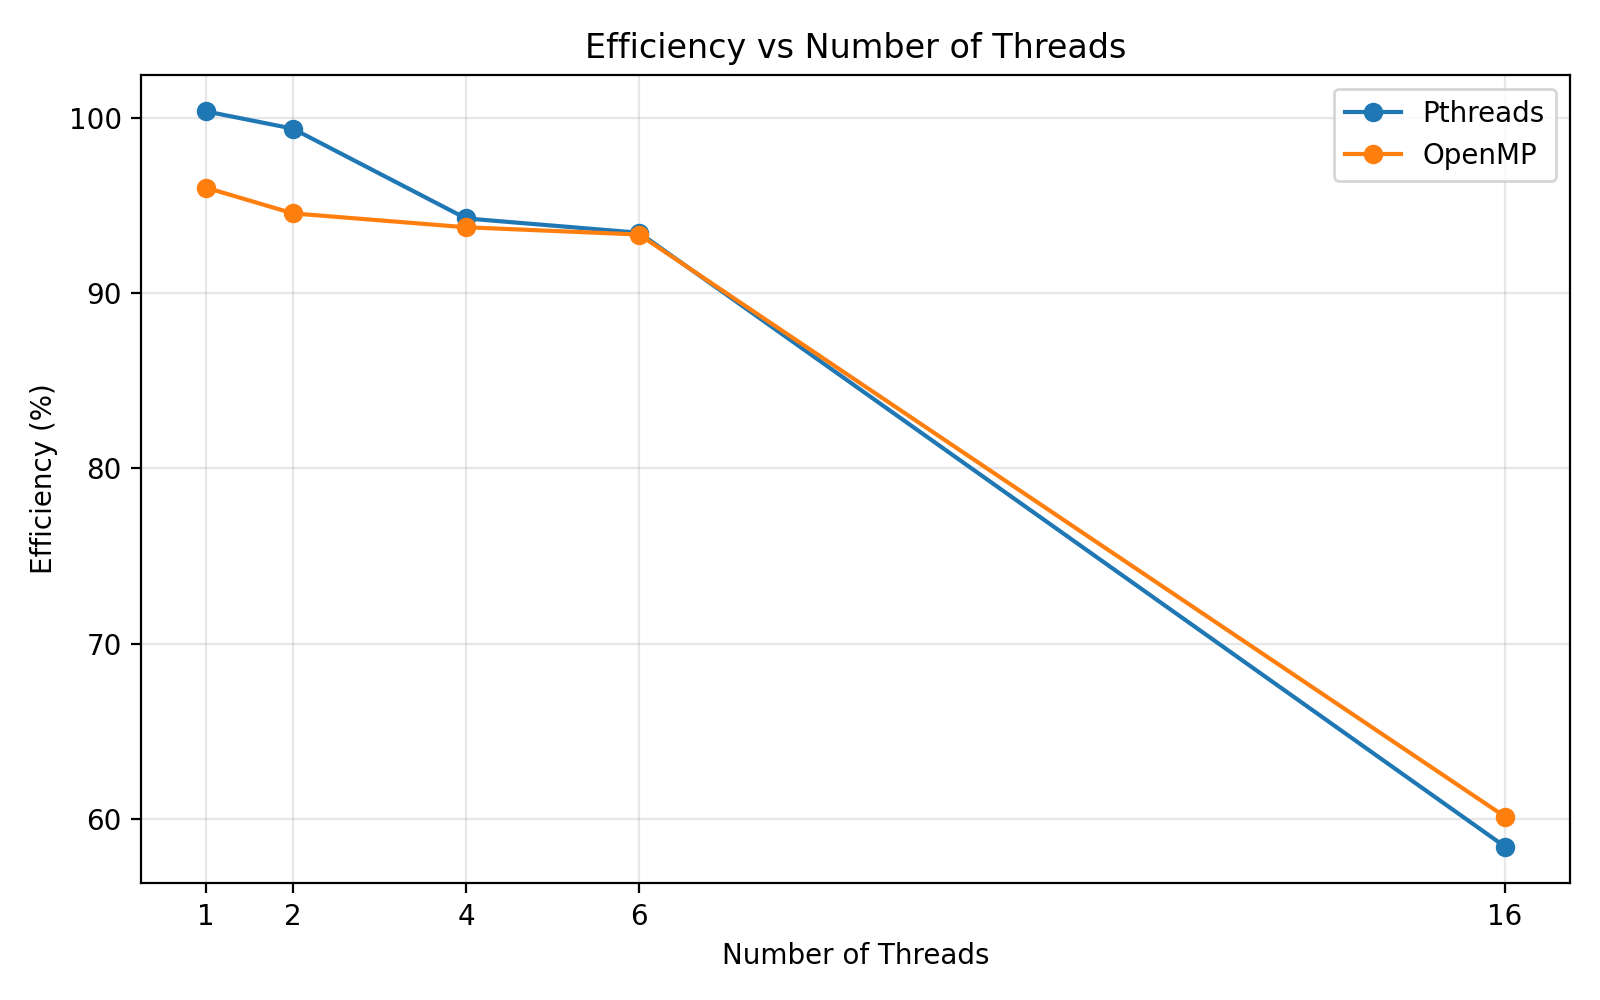
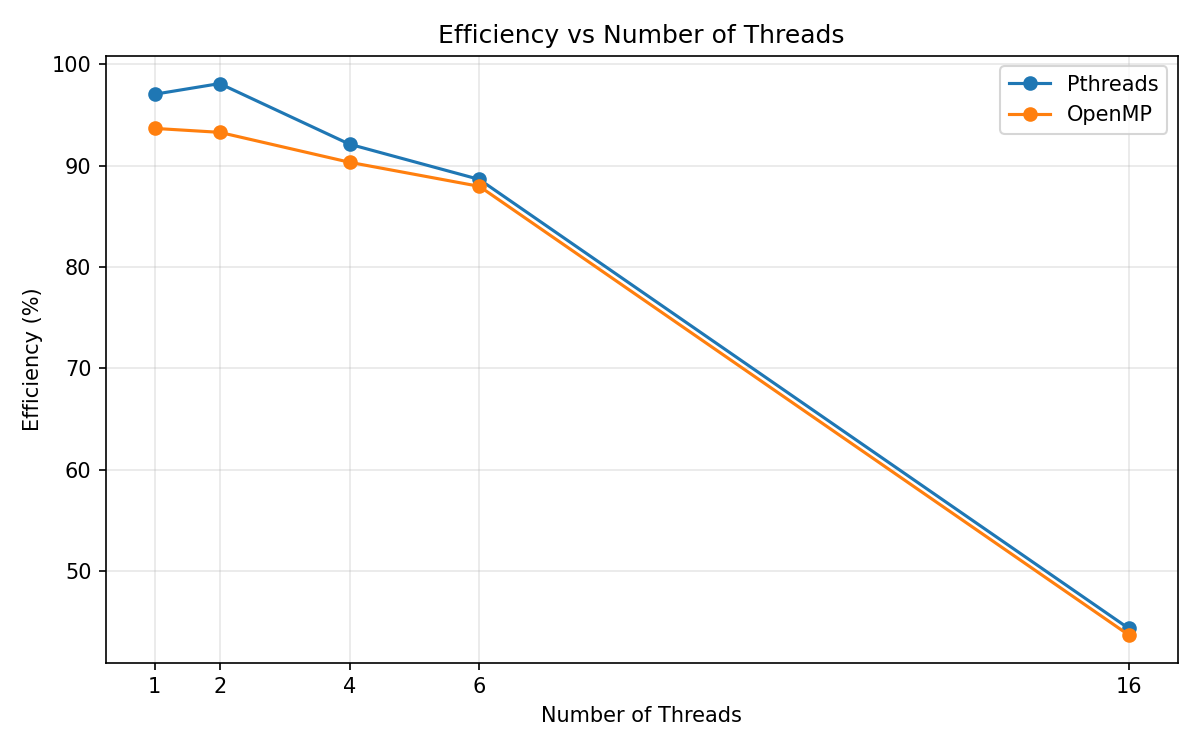
Add experiment 2 measured results, logs and regenerated graphs

diff --git a/exp2-pthreads-openmp/README.md b/exp2-pthreads-openmp/README.md
@@ -48,32 +48,33 @@ gcc omp_perf.c -o omp_perf -fopenmp && ./omp_perf
 ## Race condition
 
 Four threads each add 1 to a shared counter 100000 times, so the answer should be 400000.
-Without protection the printed value is lower and changes from run to run, because two threads can read the same
+Without protection the printed value is lower and changes from run to run (my three Pthreads runs gave 142456, 112586, 114242), because two threads can read the same
 old value and both write back the same new one. A mutex (Pthreads) or `#pragma omp critical` (OpenMP) makes it 400000 every time.
 
 ## Performance results
 
-The timings below are reference values for these programs on a 16-thread machine, not my own runs.
+Run on a MacBook with an Apple M4 Pro (12 cores), macOS, `cc` (clang) with libomp. Raw output is in [`logs/`](logs).
+With 16 threads there are more threads than cores, so that row is oversubscribed.
 
-Sequential baseline: 1.353219 s (average of 5 runs).
+Sequential baseline: 0.837061 s (average of 5 runs: 0.861, 0.835, 0.830, 0.827, 0.832).
 
 | Threads | Pthreads (s) | OpenMP (s) |
 |---|---|---|
-| 1 | 1.348142 | 1.409294 |
-| 2 | 0.680737 | 0.715560 |
-| 4 | 0.358872 | 0.360803 |
-| 6 | 0.241345 | 0.241608 |
-| 16 | 0.144812 | 0.140692 |
+| 1 | 0.862403 | 0.893458 |
+| 2 | 0.426579 | 0.448585 |
+| 4 | 0.227142 | 0.231630 |
+| 6 | 0.157374 | 0.158595 |
+| 16 | 0.118025 | 0.119778 |
 
 Speedup = sequential time / parallel time. Efficiency = speedup / threads.
 
 | Threads | Pthreads speedup | OpenMP speedup | Pthreads efficiency | OpenMP efficiency |
 |---|---|---|---|---|
-| 1 | 1.004x | 0.960x | 100.38% | 96.02% |
-| 2 | 1.988x | 1.891x | 99.39% | 94.56% |
-| 4 | 3.771x | 3.751x | 94.27% | 93.76% |
-| 6 | 5.608x | 5.601x | 93.45% | 93.35% |
-| 16 | 9.345x | 9.618x | 58.40% | 60.11% |
+| 1 | 0.971x | 0.937x | 97.06% | 93.69% |
+| 2 | 1.962x | 1.866x | 98.11% | 93.30% |
+| 4 | 3.685x | 3.614x | 92.13% | 90.34% |
+| 6 | 5.319x | 5.278x | 88.65% | 87.97% |
+| 16 | 7.092x | 6.988x | 44.33% | 43.68% |
 
 ![execution time](graphs/execution_time.png)
 ![speedup](graphs/speedup.png)
@@ -93,6 +94,6 @@ Speedup = sequential time / parallel time. Efficiency = speedup / threads.
 ## Conclusion
 
 Both libraries cut the run time a lot as threads were added, with almost the same numbers.
-Speedup is not linear: at 16 threads it is about 9.6x, not 16x, because of thread management, scheduling,
-memory access and the part of the program that is not parallel. Shared data needs a mutex or `critical`,
+Speedup is not linear: at 16 threads it is about 7x, not 16x. This machine has 12 cores, so 16 threads share them, and there is also
+thread management, scheduling, memory access and the part of the program that is not parallel. Shared data needs a mutex or `critical`,
 otherwise the result is wrong.
